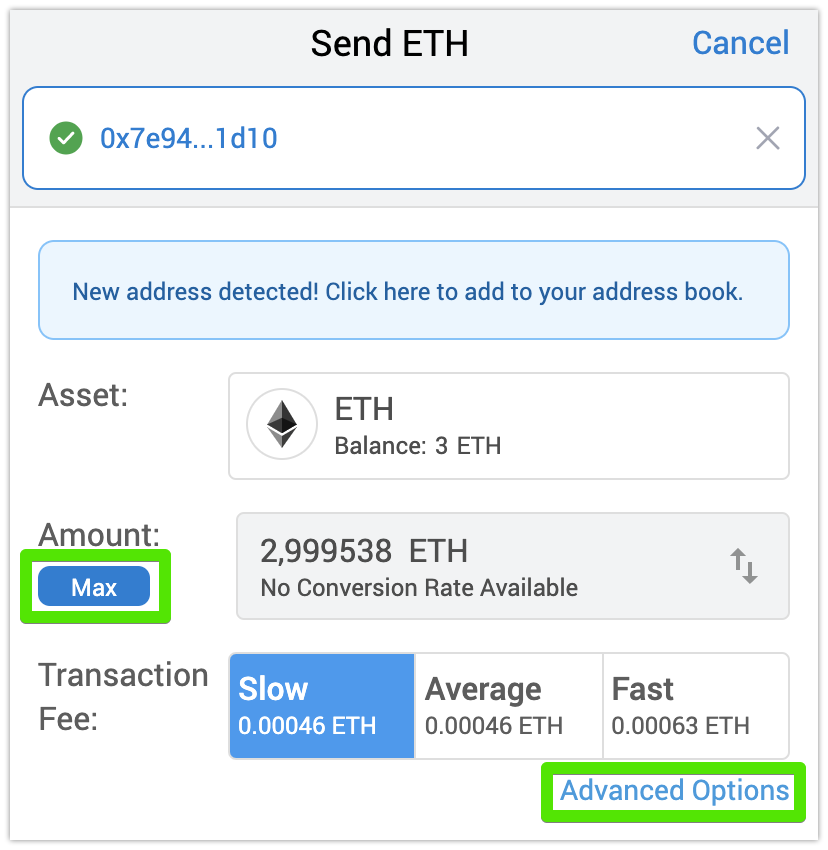
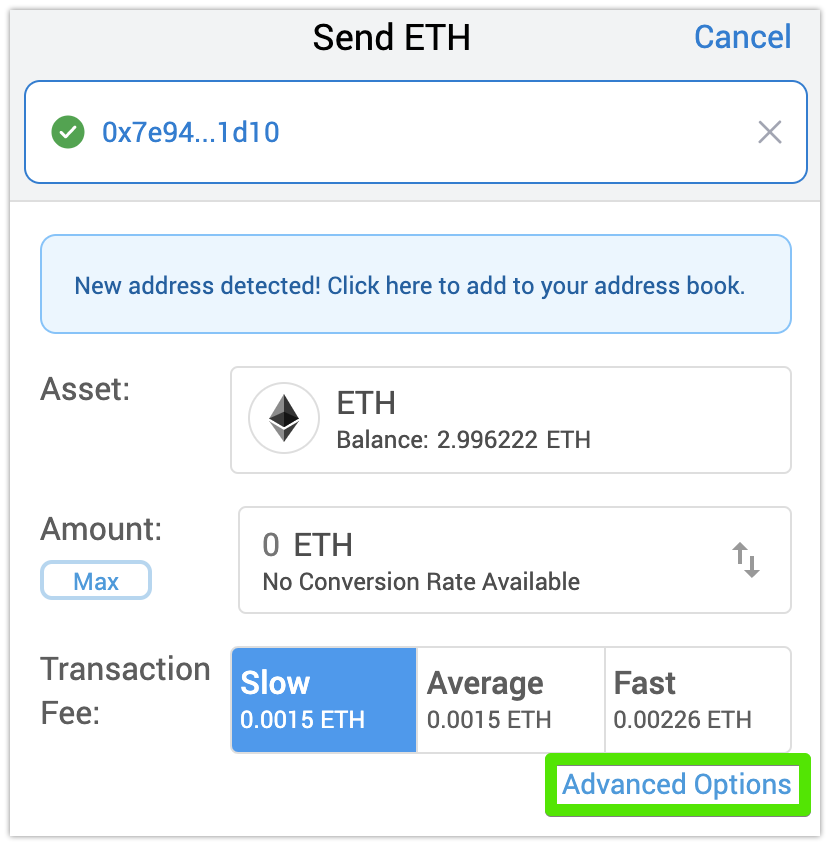
Fix discrepancies

diff --git a/docs/source/migration-test.rst b/docs/source/migration-test.rst
@@ -131,7 +131,7 @@ To acquire, first, test ETH, then swap them to test INS tokens:
    .. image:: imgs/connect-request.png
       :width: 300px
 
-   Once connected, you can click :guilabel:`request 1 ether from faucet` several times more. The corresponding transaction entries will appear below:
+   Once connected, you can click :guilabel:`request 1 ether from faucet` several times more (maximum 6). The corresponding transaction entries will appear below:
 
    .. image:: imgs/test-eth-txes.png
       :width: 450px
@@ -163,7 +163,9 @@ To acquire, first, test ETH, then swap them to test INS tokens:
 
    |
 
-#. On the **Send Tokens** screen, first, click :guilabel:`Max` to send all test ETHers, then :guilabel:`Advanced Options` to set the gas value:
+#. On the **Send ETH** screen, you do not need to send actual ETH to the token contract but a small amount of ETH will be automatically subtracted to pay for transaction processing.
+   
+   However, setting the correct gas value is required. To set it, click :guilabel:`Advanced Options`:
 
    .. image:: imgs/advanced-options.png
       :width: 300px
